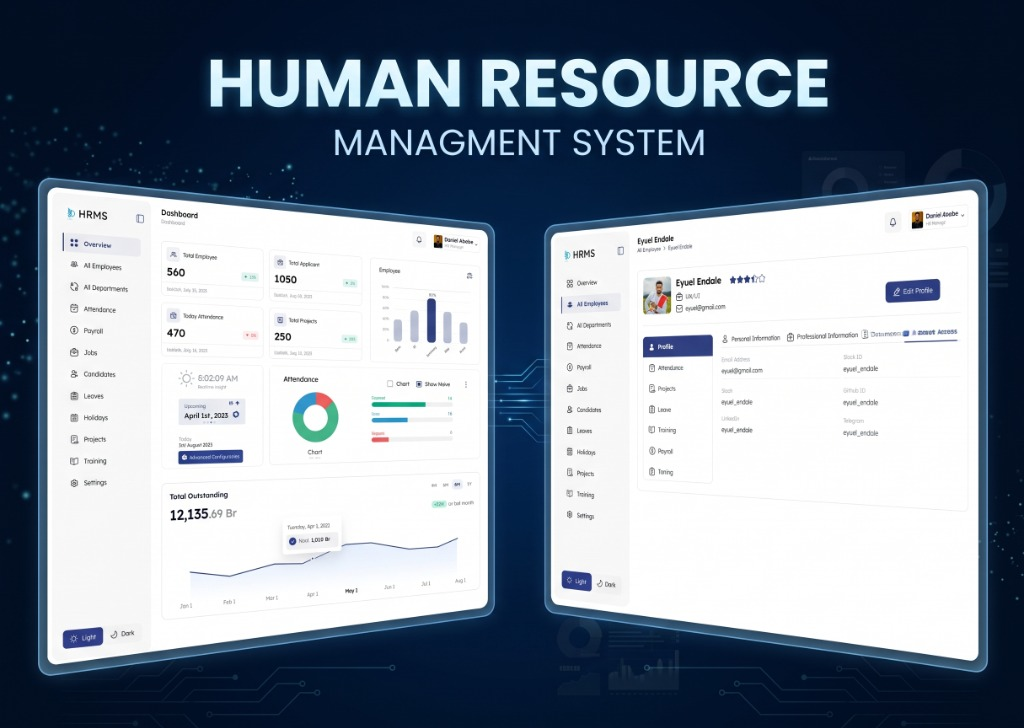
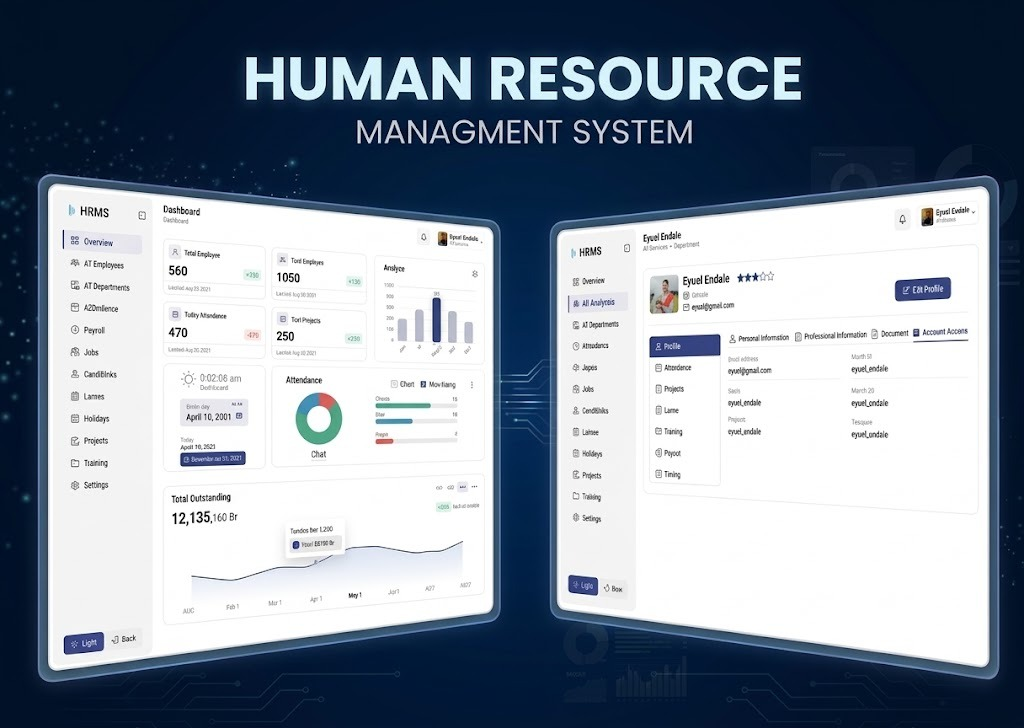
feat: add new Projects component with modal and project card UI along with HRM assets

diff --git a/components/Projects.tsx b/components/Projects.tsx
@@ -259,11 +259,11 @@ const Projects = () => {
                 {selectedProject && (
                     <div className="space-y-8">
                         {/* Hero Image in Modal */}
-                        <div className="relative w-full aspect-video rounded-xl overflow-hidden border border-white/10 shadow-2xl">
+                        <div className="relative w-full aspect-video rounded-xl overflow-hidden border border-white/10 shadow-2xl bg-slate-950/50">
                             <img
                                 src={selectedProject.image}
                                 alt={selectedProject.title}
-                                className="w-full h-full object-cover"
+                                className="w-full h-full object-contain"
                                 onError={(e) => {
                                     e.currentTarget.src = "https://placehold.co/800x600/1e293b/white?text=Project+Detail";
                                 }}

diff --git a/components/ui/ProjectCard.tsx b/components/ui/ProjectCard.tsx
@@ -78,7 +78,7 @@ const ProjectCard = ({ project, onClick }: ProjectCardProps) => {
                         <img
                             src={project.image}
                             alt={project.title}
-                            className="w-full h-full object-cover transition-transform duration-700 group-hover:scale-110"
+                            className="w-full h-full object-cover object-top transition-transform duration-700 group-hover:scale-110"
                             onError={(e) => {
                                 e.currentTarget.src = "https://placehold.co/600x400/1e293b/white?text=Project+Preview";
                             }}
